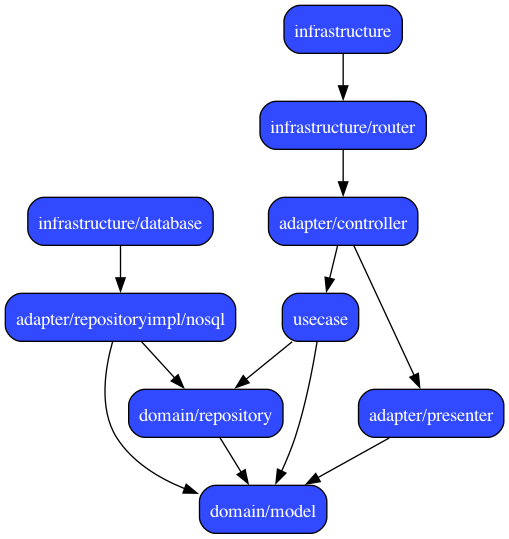
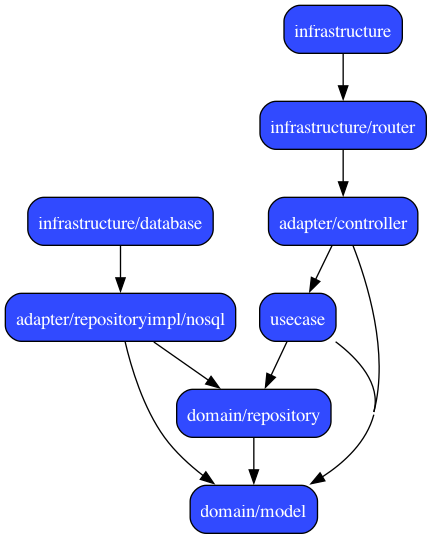
refactor: presenterを削除してcopierを使ってみた

diff --git a/sample/internal/app/wire_gen.go b/sample/internal/app/wire_gen.go
@@ -9,7 +9,6 @@ package app
 import (
 	"github.com/google/wire"
 	"github.com/sin392/db-media-sample/sample/internal/adapter/controller"
-	"github.com/sin392/db-media-sample/sample/internal/adapter/presenter"
 	"github.com/sin392/db-media-sample/sample/internal/adapter/repositoryimpl/nosql"
 	"github.com/sin392/db-media-sample/sample/internal/config"
 	"github.com/sin392/db-media-sample/sample/internal/infrastructure"
@@ -32,11 +31,9 @@ func InitializeApplication() (*Application, error) {
 	}
 	shopRepository := nosql.NewShopRepositoryImpl(noSQL)
 	findShopByNameUsecase := usecase.NewFindShopByNameIntercepter(shopRepository)
-	findShopByNamePresenter := presenter.NewFindShopByNamePresenter()
-	findShopByNameController := controller.NewFindShopByNameController(findShopByNameUsecase, findShopByNamePresenter)
+	findShopByNameController := controller.NewFindShopByNameController(findShopByNameUsecase)
 	listShopUsecase := usecase.NewListShopIntercepter(shopRepository)
-	listShopPresenter := presenter.NewListShopPresenter()
-	listShopController := controller.NewListShopController(listShopUsecase, listShopPresenter)
+	listShopController := controller.NewListShopController(listShopUsecase)
 	shopRouter := router.NewShopRouter(findShopByNameController, listShopController)
 	grpcServer := infrastructure.NewGrpcServer(shopRouter)
 	httpServer := infrastructure.NewHttpServer()
@@ -49,4 +46,6 @@ func InitializeApplication() (*Application, error) {
 
 // wire.go:
 
-var WireSet = wire.NewSet(config.Load, infrastructure.NewHttpServer, infrastructure.NewGrpcServer, router.NewShopRouter, database.NewMongoHandler, database.NewConfig, controller.NewFindShopByNameController, controller.NewListShopController, presenter.NewFindShopByNamePresenter, presenter.NewListShopPresenter, usecase.NewFindShopByNameIntercepter, usecase.NewListShopIntercepter, nosql.NewShopRepositoryImpl)
+// usecaseとadapterが増えるとファイルが肥大化しそうだなぁ
+// presenterは汎用的な表現にまとめていいかも
+var WireSet = wire.NewSet(config.Load, infrastructure.NewHttpServer, infrastructure.NewGrpcServer, router.NewShopRouter, database.NewMongoHandler, database.NewConfig, controller.NewFindShopByNameController, controller.NewListShopController, usecase.NewFindShopByNameIntercepter, usecase.NewListShopIntercepter, nosql.NewShopRepositoryImpl)

diff --git a/sample/internal/infrastructure/router/shop.go b/sample/internal/infrastructure/router/shop.go
@@ -2,7 +2,9 @@ package router
 
 import (
 	"context"
+	"fmt"
 
+	"github.com/jinzhu/copier"
 	"github.com/sin392/db-media-sample/sample/internal/adapter/controller"
 	pb "github.com/sin392/db-media-sample/sample/pb/shop/v1"
 	"google.golang.org/grpc"
@@ -28,7 +30,7 @@ func (r *ShopRouter) FindShopByName(ctx context.Context, req *pb.FindShopByNameR
 	name := req.GetName()
 	shop, err := r.findShopByNameCtrl.Execute(ctx, name)
 	if err != nil {
-		return nil, err
+		return nil, fmt.Errorf("failed to execute controller: %w", err)
 	}
 	menus := make([]*pb.Menu, len(shop.Menus))
 	for i, m := range shop.Menus {
@@ -38,31 +40,20 @@ func (r *ShopRouter) FindShopByName(ctx context.Context, req *pb.FindShopByNameR
 			Desc:  m.Desc,
 		}
 	}
-	return &pb.FindShopByNameResponse{
-		Id:   shop.ID,
-		Name: shop.Name,
-		Location: &pb.Location{
-			Prefecture: shop.Location.Prefecture,
-			City:       shop.Location.City,
-			Address:    shop.Location.Address,
-		},
-		Tel:      shop.Tel,
-		ImageUrl: shop.ImageURL,
-		SiteUrl:  shop.SiteURL,
-		Rating:   shop.Rating,
-		Tags:     shop.Tags,
-		Menus:    menus,
-	}, nil
+	var res pb.FindShopByNameResponse
+	copier.Copy(&res, shop)
+	return &res, nil
 }
 
 func (r *ShopRouter) ListShop(ctx context.Context, req *pb.ListShopRequest) (*pb.ListShopResponse, error) {
-	_, err := r.listShopCtrl.Execute(ctx)
+	shops, err := r.listShopCtrl.Execute(ctx)
 	if err != nil {
-		return nil, err
+		return nil, fmt.Errorf("failed to execute controller: %w", err)
 	}
-	return &pb.ListShopResponse{
-		Shops: []*pb.Shop{},
-	}, nil
+	fmt.Println(shops)
+	var res pb.ListShopResponse
+	copier.Copy(&res.Shops, shops)
+	return &res, nil
 }
 
 func (r *ShopRouter) Register(server *grpc.Server) {

diff --git a/sample/internal/adapter/controller/find_shop_by_name.go b/sample/internal/adapter/controller/find_shop_by_name.go
@@ -4,30 +4,28 @@ import (
 	"context"
 	"fmt"
 
-	"github.com/sin392/db-media-sample/sample/internal/adapter/presenter"
+	"github.com/sin392/db-media-sample/sample/internal/domain/model"
 	"github.com/sin392/db-media-sample/sample/internal/usecase"
 	"github.com/sin392/db-media-sample/sample/module/trace"
 )
 
 type FindShopByNameController struct {
-	uc        usecase.FindShopByNameUsecase
-	presenter presenter.FindShopByNamePresenter
+	uc usecase.FindShopByNameUsecase
 }
 
-func NewFindShopByNameController(uc usecase.FindShopByNameUsecase, presenter presenter.FindShopByNamePresenter) FindShopByNameController {
+func NewFindShopByNameController(uc usecase.FindShopByNameUsecase) FindShopByNameController {
 	return FindShopByNameController{
-		uc:        uc,
-		presenter: presenter,
+		uc: uc,
 	}
 }
 
-func (c *FindShopByNameController) Execute(ctx context.Context, name string) (*presenter.FindShopByNameOutput, error) {
+func (c *FindShopByNameController) Execute(ctx context.Context, name string) (*model.Shop, error) {
 	ctx, span := trace.StartSpan(ctx, "FindShopByNameController.Execute")
 	defer span.End()
 
-	output, err := c.uc.Execute(ctx, name)
+	shop, err := c.uc.Execute(ctx, name)
 	if err != nil {
 		return nil, fmt.Errorf("failed to execute usecase: %w", err)
 	}
-	return c.presenter.Output(output), nil
+	return shop, nil
 }

diff --git a/sample/internal/adapter/controller/list_shop.go b/sample/internal/adapter/controller/list_shop.go
@@ -4,30 +4,28 @@ import (
 	"context"
 	"fmt"
 
-	"github.com/sin392/db-media-sample/sample/internal/adapter/presenter"
+	"github.com/sin392/db-media-sample/sample/internal/domain/model"
 	"github.com/sin392/db-media-sample/sample/internal/usecase"
 	"github.com/sin392/db-media-sample/sample/module/trace"
 )
 
 type ListShopController struct {
-	uc        usecase.ListShopUsecase
-	presenter presenter.ListShopPresenter
+	uc usecase.ListShopUsecase
 }
 
-func NewListShopController(uc usecase.ListShopUsecase, presenter presenter.ListShopPresenter) ListShopController {
+func NewListShopController(uc usecase.ListShopUsecase) ListShopController {
 	return ListShopController{
-		uc:        uc,
-		presenter: presenter,
+		uc: uc,
 	}
 }
 
-func (c *ListShopController) Execute(ctx context.Context) (*presenter.ListShopOutput, error) {
+func (c *ListShopController) Execute(ctx context.Context) ([]model.Shop, error) {
 	ctx, span := trace.StartSpan(ctx, "ListShopController.Execute")
 	defer span.End()
 
-	output, err := c.uc.Execute(ctx)
+	shops, err := c.uc.Execute(ctx)
 	if err != nil {
 		return nil, fmt.Errorf("failed to execute usecase: %w", err)
 	}
-	return c.presenter.Output(output), nil
+	return shops, nil
 }

diff --git a/sample/internal/adapter/repositoryimpl/nosql/shop.go b/sample/internal/adapter/repositoryimpl/nosql/shop.go
@@ -32,24 +32,24 @@ func (r *ShopRepositoryImpl) FindByName(ctx context.Context, name string) (*mode
 	ctx, span := trace.StartSpan(ctx, "ShopRepositoryImpl.FindByName")
 	defer span.End()
 
-	var result *model.Shop
+	var result model.Shop
 	query := bson.M{
 		// 大文字小文字を区別せずに部分一致検索
 		"name": primitive.Regex{Pattern: name, Options: ""},
 	}
-	err := r.db.FindOne(ctx, r.collectionName, query, nil, result)
+	err := r.db.FindOne(ctx, r.collectionName, query, nil, &result)
 	if err != nil {
 		return nil, fmt.Errorf("failed to find shop by name: %w", err)
 	}
-	return result, nil
+	return &result, nil
 }
 
 // List 店舗一覧を取得する
-func (r *ShopRepositoryImpl) List(ctx context.Context) ([]*model.Shop, error) {
+func (r *ShopRepositoryImpl) List(ctx context.Context) ([]model.Shop, error) {
 	ctx, span := trace.StartSpan(ctx, "ShopRepositoryImpl.List")
 	defer span.End()
 
-	var results []*model.Shop
+	var results []model.Shop
 	query := bson.M{}
 	err := r.db.FindAll(ctx, r.collectionName, query, &results)
 	if err != nil {

diff --git a/sample/internal/app/wire.go b/sample/internal/app/wire.go
@@ -7,7 +7,6 @@ import (
 	"github.com/google/wire"
 
 	"github.com/sin392/db-media-sample/sample/internal/adapter/controller"
-	"github.com/sin392/db-media-sample/sample/internal/adapter/presenter"
 	"github.com/sin392/db-media-sample/sample/internal/adapter/repositoryimpl/nosql"
 	"github.com/sin392/db-media-sample/sample/internal/config"
 	"github.com/sin392/db-media-sample/sample/internal/infrastructure"
@@ -29,8 +28,6 @@ var WireSet = wire.NewSet(
 	// adapter
 	controller.NewFindShopByNameController,
 	controller.NewListShopController,
-	presenter.NewFindShopByNamePresenter,
-	presenter.NewListShopPresenter,
 	// usecase
 	usecase.NewFindShopByNameIntercepter,
 	usecase.NewListShopIntercepter,

diff --git a/sample/internal/domain/model/shop.go b/sample/internal/domain/model/shop.go
@@ -15,12 +15,12 @@ type Menu struct {
 }
 
 type Shop struct {
-	ID       string   `bson:"_id" json:"id"`
+	ID       string   `bson:"_id" json:"id" copier:"Id"`
 	Name     string   `bson:"name" json:"name"`
 	Location Location `bson:"location" json:"location"`
 	Tel      string   `bson:"tel" json:"tel"`
-	ImageURL string   `bson:"image_url" json:"image_url"`
-	SiteURL  string   `bson:"site_url" json:"site_url"`
+	ImageURL string   `bson:"image_url" json:"image_url" copier:"ImageUrl"`
+	SiteURL  string   `bson:"site_url" json:"site_url" copier:"SiteUrl"`
 	Rating   float32  `bson:"rating" json:"rating"`
 	Tags     []string `bson:"tags" json:"tags"`
 	Menus    []Menu   `bson:"menus" json:"menus"`

diff --git a/sample/internal/usecase/list_shop.go b/sample/internal/usecase/list_shop.go
@@ -11,7 +11,7 @@ import (
 
 type (
 	ListShopUsecase interface {
-		Execute(ctx context.Context) ([]*model.Shop, error)
+		Execute(ctx context.Context) ([]model.Shop, error)
 	}
 	ListShopInteractor struct {
 		repo repository.ShopRepository
@@ -26,7 +26,7 @@ func NewListShopIntercepter(
 	}
 }
 
-func (a *ListShopInteractor) Execute(ctx context.Context) ([]*model.Shop, error) {
+func (a *ListShopInteractor) Execute(ctx context.Context) ([]model.Shop, error) {
 	ctx, span := trace.StartSpan(ctx, "ListShopInteractor.Execute")
 	defer span.End()
 

diff --git a/sample/internal/domain/repository/shop.go b/sample/internal/domain/repository/shop.go
@@ -10,5 +10,5 @@ type ShopRepository interface {
 	// FindByName 名前から店舗を取得する
 	FindByName(ctx context.Context, name string) (*model.Shop, error)
 	// List 店舗一覧を取得する
-	List(ctx context.Context) ([]*model.Shop, error)
+	List(ctx context.Context) ([]model.Shop, error)
 }
